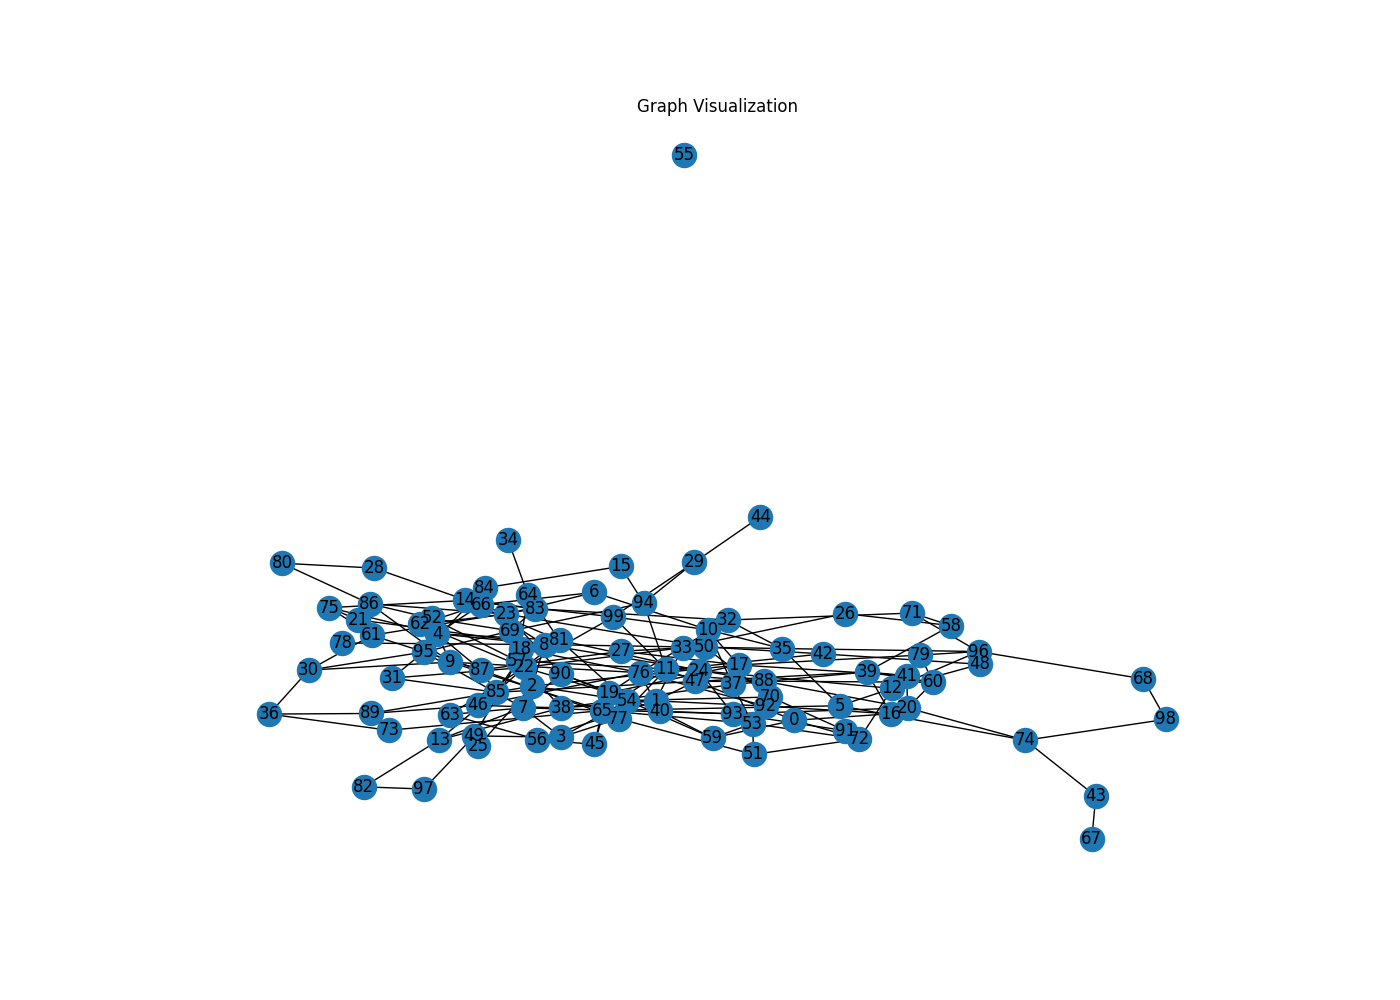
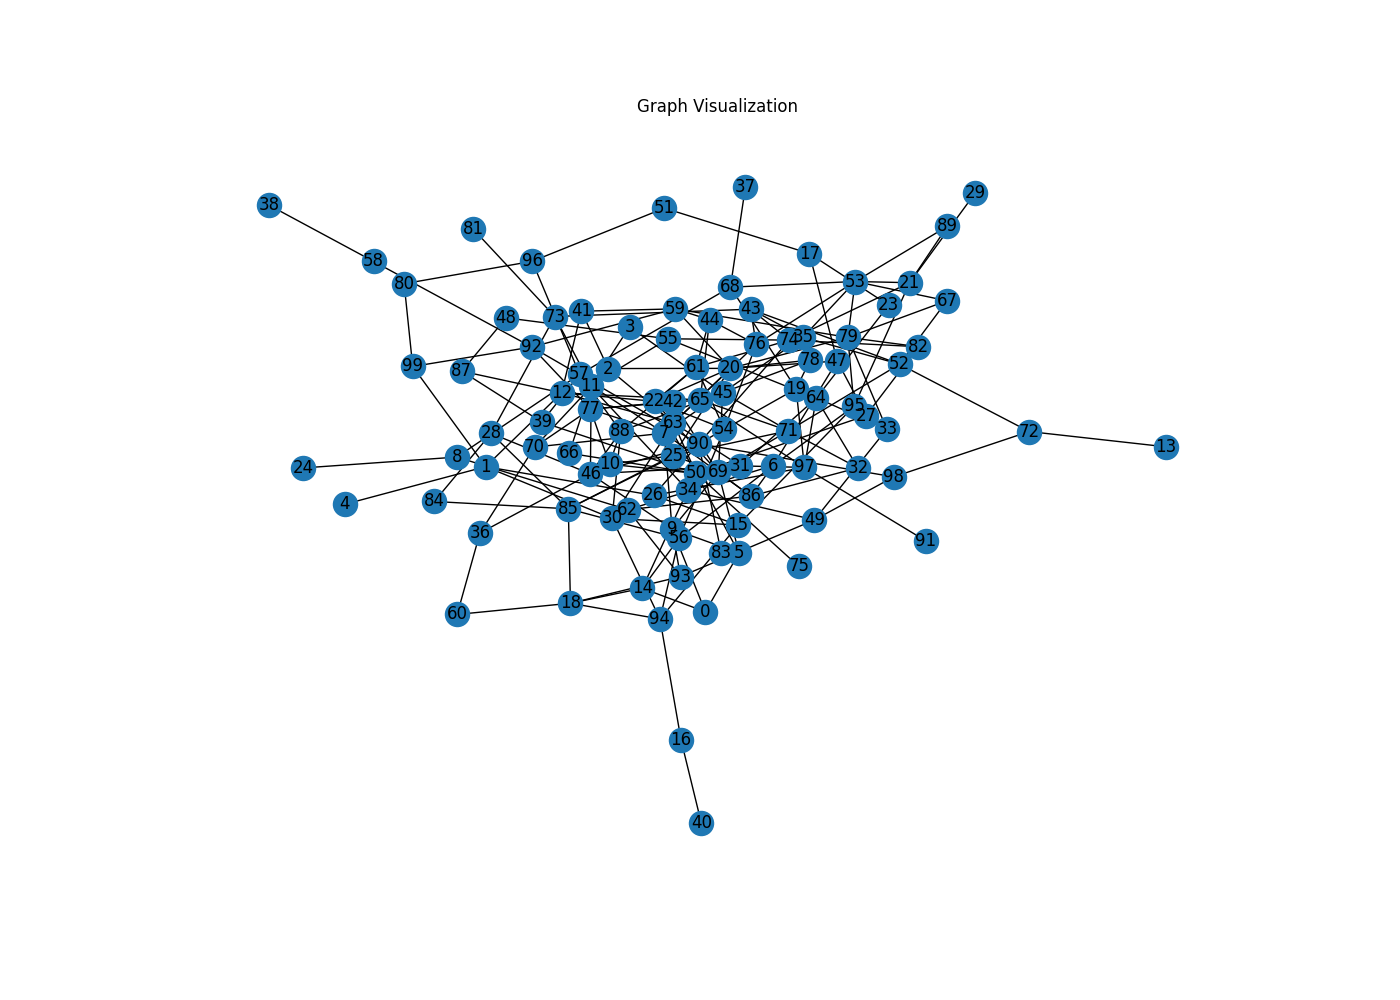
lab6: final

diff --git a/lab6/lab6.Algorithms on graphs. Path search algorithms on weighted graphs.py b/lab6/lab6.Algorithms on graphs. Path search algorithms on weighted graphs.py
@@ -1,0 +1,120 @@
+import numpy as np
+import matplotlib.pyplot as plt
+import networkx as nx
+import datetime
+import timeit
+import random
+# random.seed(0)
+
+
+def create_graph(n, m):
+    matrix = np.zeros((n, n), dtype=int)
+    edges = 0
+    while edges < m:
+        a = random.randint(0, n - 1)
+        b = random.randint(0, n - 1)
+        if a == b or matrix[a, b] != 0:
+            continue
+        matrix[a, b] = 1
+        matrix[b, a] = 1
+        edges += 1
+    graph = nx.from_numpy_matrix(matrix)
+    return graph
+
+
+n = 100     # Nodes
+m = 500     # Edges
+graph = create_graph(n, m)
+
+for (u, v) in graph.edges():
+    graph.edges[u, v]['weight'] = np.random.randint(0, 100)
+
+adjacency_matrix = nx.adjacency_matrix(graph).todense()
+
+for row in adjacency_matrix[:3]:
+    print(row)
+
+
+plt.figure(figsize=(15, 8))
+plt.title('Graph Visualization')
+nx.draw_spring(graph, with_labels=True)
+# pos = nx.spring_layout(graph)
+# nx.draw_networkx(graph, pos)
+# labels = nx.get_edge_attributes(graph, 'weight')
+# nx.draw_networkx_edge_labels(graph, pos, edge_labels=labels)
+plt.savefig('graph.png')
+plt.show()
+
+
+def dijkstra_path(graph, source, target):
+    return nx.dijkstra_path(G=graph, source=source, target=target)
+
+
+def bellman_ford_path(graph, source, target):
+    return nx.bellman_ford_path(G=graph, source=source, target=target)
+
+
+def timestamp(algo, graph):
+    ts = np.array([])
+    ts_ = np.array([datetime.datetime.now().timestamp()])
+    ap = algo(graph, 0, 10)
+    ts_ = np.append(ts_, datetime.datetime.now().timestamp())
+    ts = np.append(ts, ts_[1] - ts_[0])
+    return ap, ts
+
+
+runs = 10
+ts_d = np.array([])
+ts_bf = np.array([])
+for i in range(0, runs):
+    graph = create_graph(n, m)
+    ap_d, ts_ = timestamp(dijkstra_path, graph)
+    ts_d = np.append(ts_d, ts_)
+    ap_bf, ts_ = timestamp(bellman_ford_path, graph)
+    ts_bf = np.append(ts_bf, ts_)
+ts_d = np.sum(ts_d)/runs
+ts_bf = np.sum(ts_bf)/runs
+print('Dijkstra Algorithm:', ap_d, '\n', ts_d, 'seconds')
+print('Bellman-Ford Algorithm:', ap_bf, '\n', ts_bf, 'seconds')
+
+
+
+
+x_grid = 20
+y_grid = 10
+obstacles_number = 30
+graph = nx.grid_2d_graph(y_grid, x_grid)
+
+removed = 0
+while removed < obstacles_number:
+    x = random.randint(0, x_grid - 1)
+    y = random.randint(0, y_grid - 1)
+    if (y, x) not in graph:
+        continue
+    graph.remove_node((y, x))
+    removed += 1
+
+plt.figure(figsize=(15, 8))
+pos = {(x, y): (y, -x) for x, y in graph.nodes()}
+nx.draw(graph, pos=pos, with_labels=True, node_size=1000, font_size=9)
+plt.savefig('A*.png')
+plt.show()
+
+for i in range(5):
+    a = random.choice(list(graph.nodes.keys()))
+    b = random.choice(list(graph.nodes.keys()))
+    print('\nA* Algorithm\nFrom', a, 'to', b)
+
+    time_start = timeit.default_timer()
+    path = nx.astar_path(graph, a, b)
+    time_end = timeit.default_timer()
+    print('Path:', path)
+    print(time_end - time_start, 'seconds')
+
+plt.figure(figsize=(15, 8))
+pos = {(x, y): (y, -x) for x, y in graph.nodes()}
+nx.draw(graph, pos=pos, with_labels=True, node_size=1000, font_size=9)
+path_edges = list(zip(path, path[1:]))
+nx.draw_networkx_edges(graph, pos, edgelist=path_edges, edge_color='r', width=3)
+plt.savefig('A* path.png')
+plt.show()
